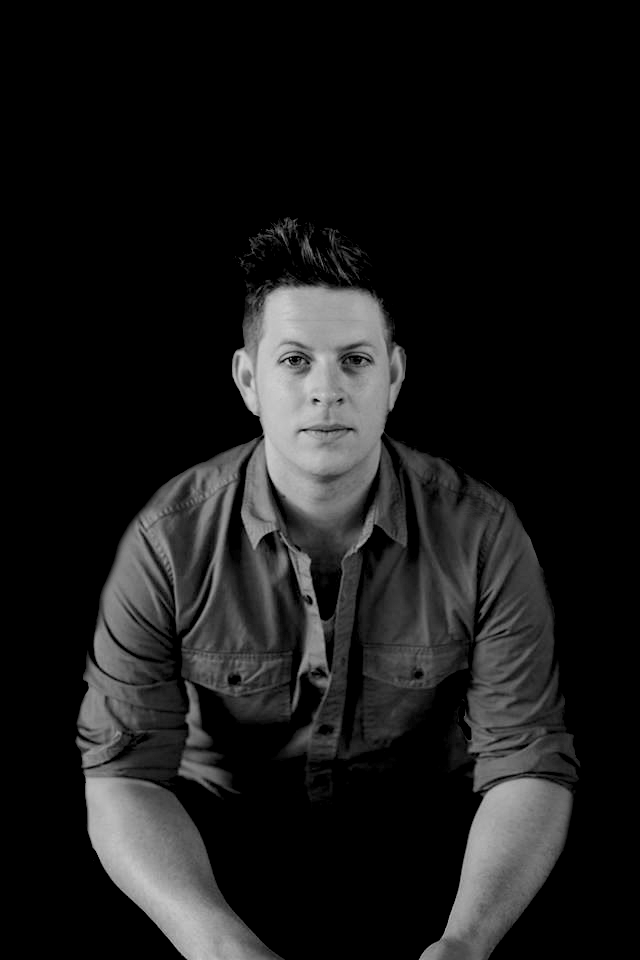
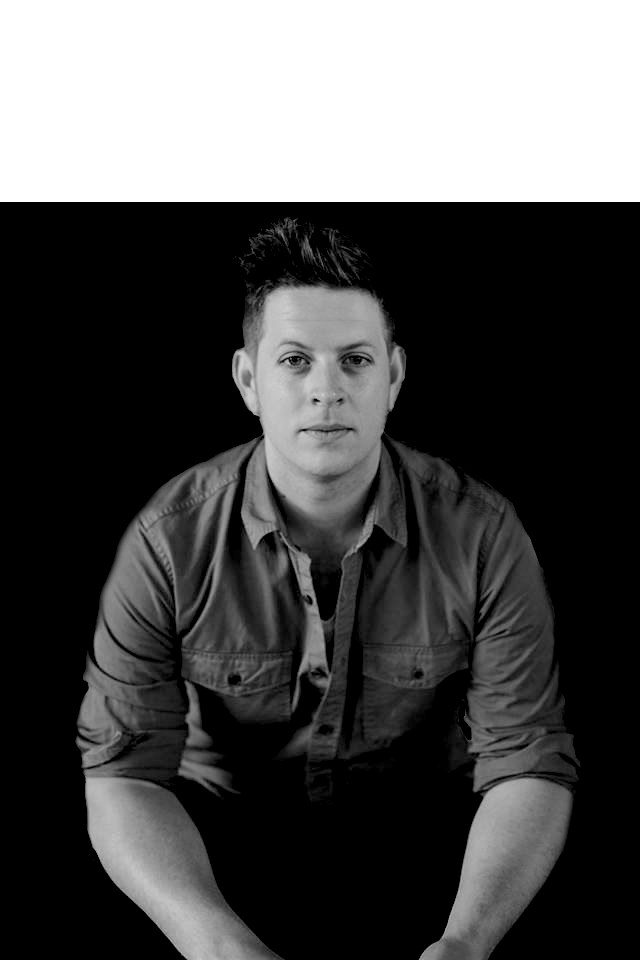
changed linkdin image to clear bckgrnd/ added hover margin change

Changed region(s): [[0.0, 0.0, 1.0, 0.2188]]

diff --git a/index.html b/index.html
@@ -22,25 +22,9 @@
 		</header>
 
 		<div class="row">
-			  <div class="col-md-6">
-
-			  	<!-- my face -->
+			 <div class="col-xs-12">
 			  		
-					<img src="images/billy.png" class="img-responsive" alt="Responsive image">
-
-					<!-- icons [need to add links] -->
-					<div class="row box-icon">
-						<img class="icon" src="
-			  			http://static.wixstatic.com/media/51a5bd_6e89080215274fd7975c23895800b7b1~mv2.png" class="img-responsive" alt="Responsive image">
-
-			  			<img class="icon" src="https://image.freepik.com/free-icon/linkedin-logo_318-50643.jpg" alt="Responsive image">
-
-					</div>
-
-			  </div>
-			  <div class="col-md-6">
-			  		
-			  		<h2><span class="first"></span><span class="second"></span></h2>
+			  		<h2 class="text-nowrap"><span class="first"></span><span class="second"></span></h2>
 
 			  		<!-- develop a passion for learning. If you do, you will never cease to grow.
 
@@ -62,6 +46,23 @@
 
 
 			  </div>
+			  <div class="col-xs-12 col-md-6">
+
+			  	<!-- my face -->
+			  		
+					<img src="images/billy.png" class="img-responsive" alt="Responsive image">
+
+					<!-- icons [need to add links] -->
+					<div class="row box-icon">
+						<a href="https://github.com/sirwilliamiv"><img class="icon" src="
+			  			http://static.wixstatic.com/media/51a5bd_6e89080215274fd7975c23895800b7b1~mv2.png" class="img-responsive" alt="Responsive image"> <span id="git-name"></span></a>
+
+			  			<a href="www.linkedin.com/in/billyconnolly"><img class="icon" src="https://www.validas.com/images/linkedin.png" alt="Responsive image"></a>
+
+					</div>
+
+			  </div>
+			 
 		</div>
 
 

diff --git a/js/site.js b/js/site.js
@@ -1,7 +1,8 @@
 
 
-
-
+// saving strings as variables
+// rotating icons
+// 
 
 
 
@@ -14,7 +15,7 @@ console.log("Hey, I work");
 
          $(function(){
         $("h2 .first").typed({
-            strings: ["Currently enrolled at Nashville Software School Full-Stack Developement track. Technologies in progress: "],
+            strings: ["Technologies in progress: "],
             typeSpeed: 30,
             callback: function() {
               showThis();
@@ -25,22 +26,21 @@ console.log("Hey, I work");
      function showThis(){
 
         $("span.second").typed({
-              strings: ["JavaScript", "Node.js", "Ajax", "Angular", "expressjs", "Atom", "Grunt", "Mocha", "Chai"],
+              strings: ["JavaScript", "html5", "css3", "Sass", "Coffee","Firebase","Bootstrap", "jQuery", "Node.js", "Ajax", "Angular", "expressjs", "Atom", "Grunt", "Mocha", "Chai"],
               backDelay: 1500,    
-              typeSpeed: 100,
-              backSpeed: 100,
+              typeSpeed: 10,
+              backSpeed: 0,
               loop: true,
-              
-          });
+            });
 
-      }
-   });
+         }
+    });
 
 
 
 
     
-
+ });
 
 //         setTimeout(function(){
 //         $(".element1").css("display", "inherit");
@@ -67,7 +67,7 @@ console.log("Hey, I work");
 //         });
 //     }, 2000);
 
- });
+
 
 
 

diff --git a/main.css b/main.css
@@ -6,8 +6,8 @@ body {
 
   .container {
 
-  	max-width: 800px;
-  	max-height: 1024px;
+  	max-width: 900px;
+  	max-height: 824px;
   }
 
 .typed-cursor {
@@ -22,15 +22,19 @@ body {
   .box-icon {
 	height: 80px;
   	text-align: center;
-  	margin-top: -50px;
+  	margin-top: -95px;
   	
   }
 
   .icon {
 	border-radius: 25%;
-  	height: 55px;
-  	width: 55px;
-  	padding: 0 10px;
+  	height: 105px;
+  	width: 105px;
+  	
+  }
+
+  .icon:hover {
+  	margin-top: -95px;
   }
 
   h1 {
